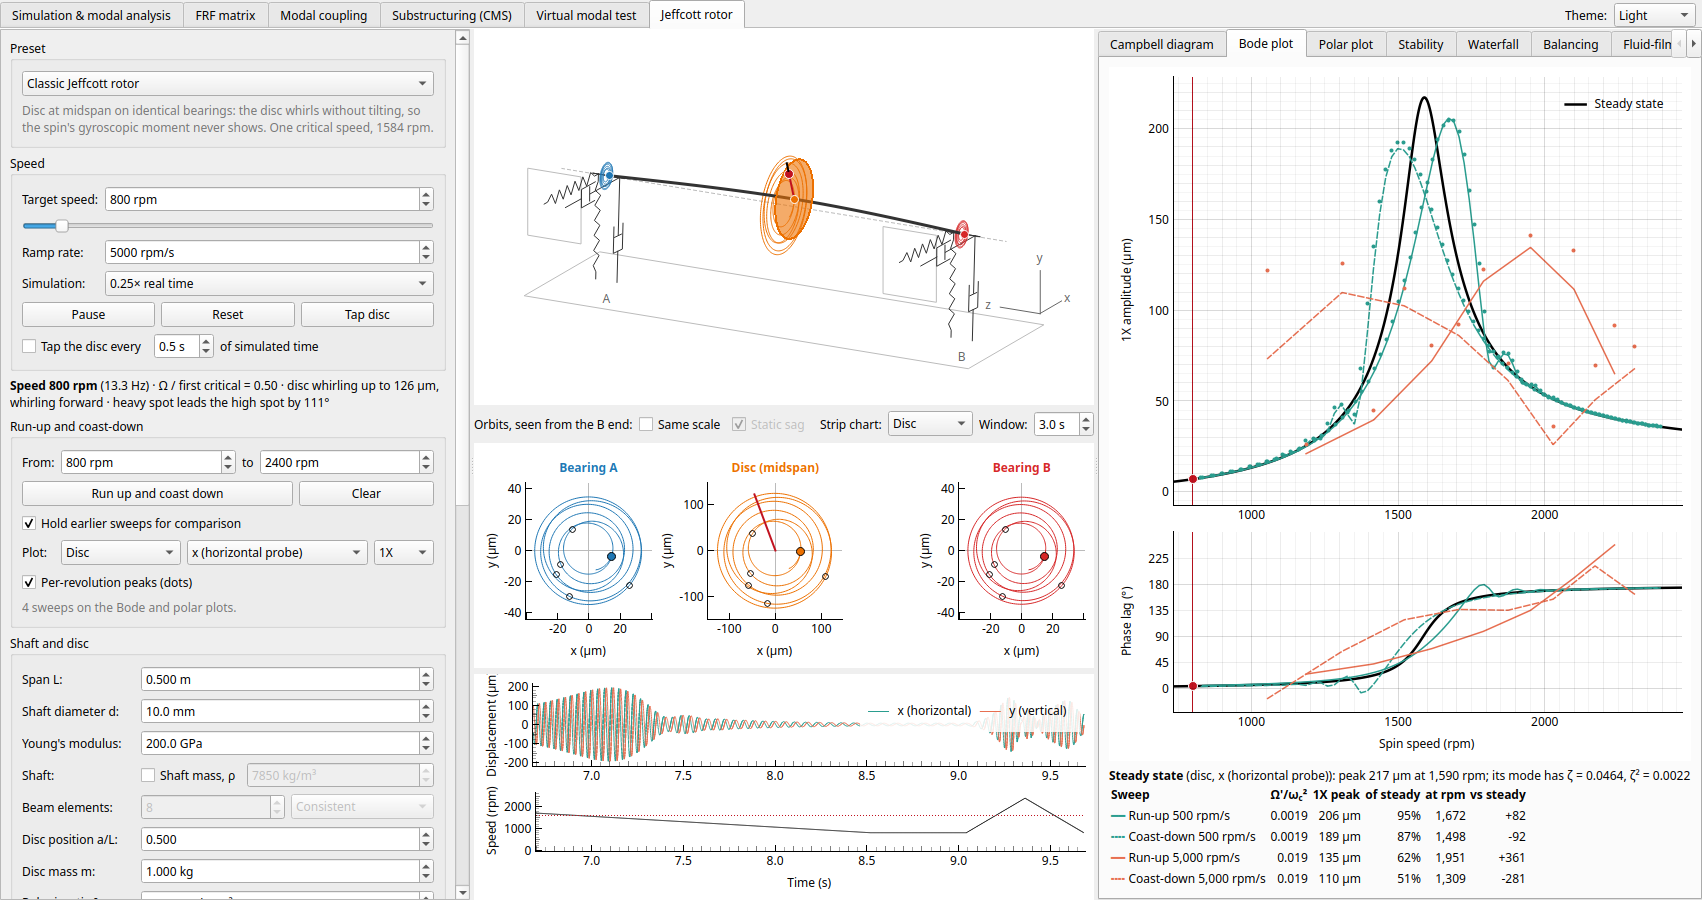
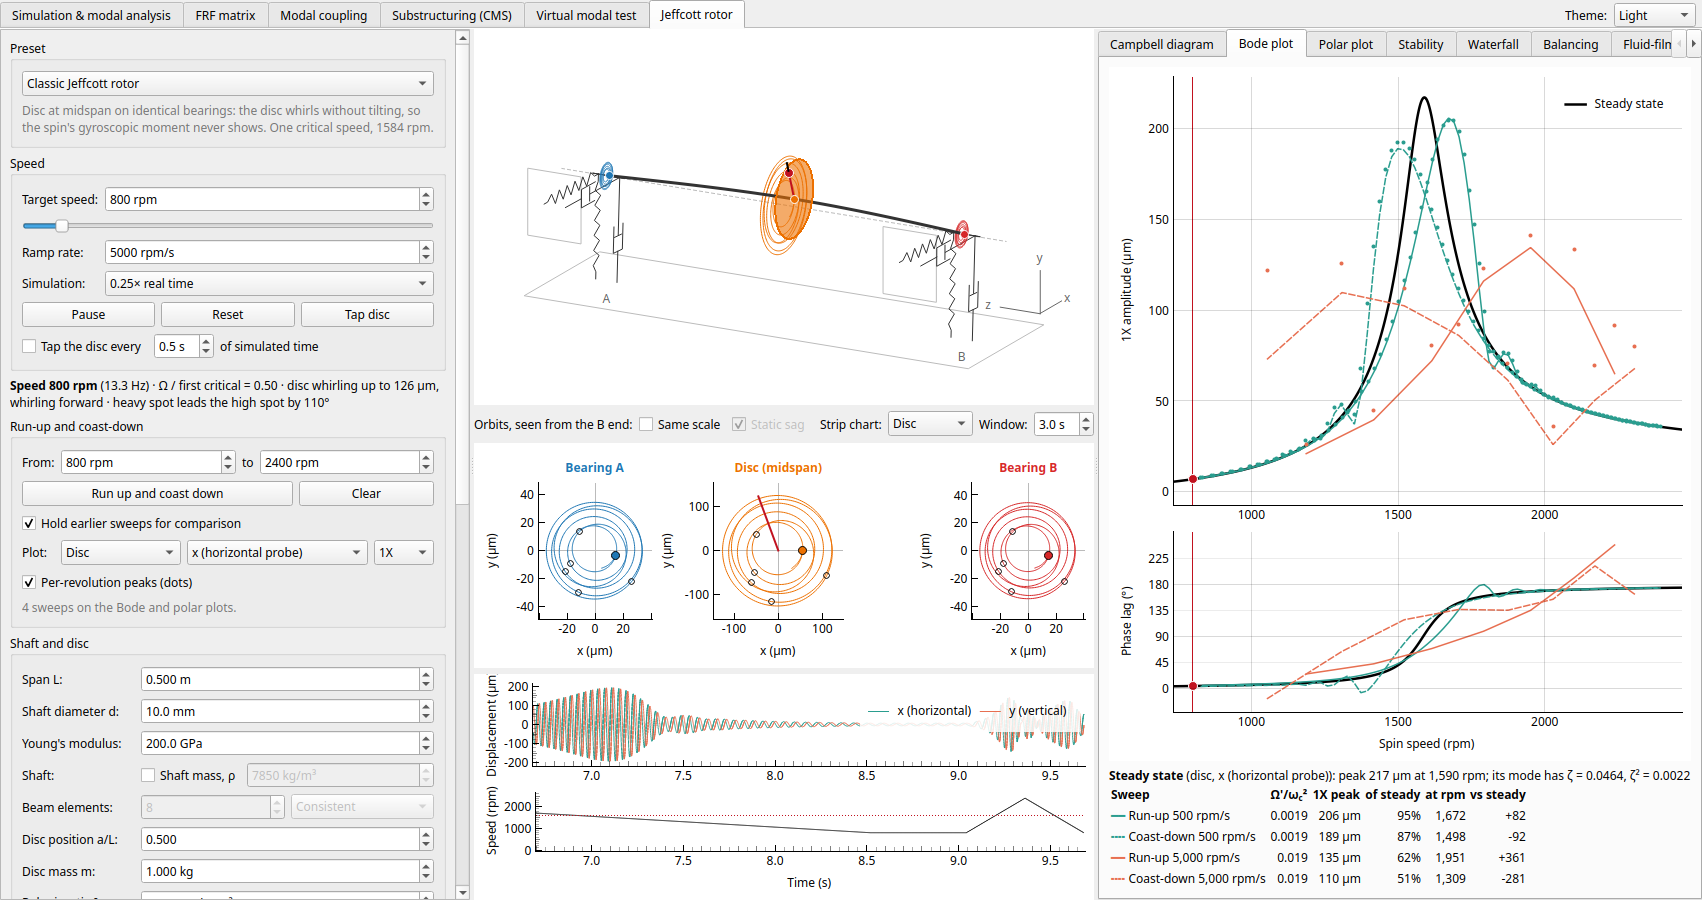
Plots paint once per frame, and not at all when nothing on them changed
From the second Mac log, the rotor page's Bode and Polar sub-tabs painted in
23-28 ms against ~11 for Campbell. Offscreen at 2x:

- The orbits and strip charts painted twice per frame on every page.
  pyqtgraph applies a new view range at the start of the next paint, which
  marks the items dirty again; and the orbits' axes narrowed and widened
  with their tick labels, re-laying the plots out. settle_plots() applies
  the ranges at the end of each page's frame, and the orbit axes no longer
  narrow.
- The Bode and Polar markers were set every frame even at a steady speed,
  repainting both plots (thick curves, grids) for nothing.
- While ramping the marker does move, and each move repaints the axes,
  which draw the grid. The grid is now on major ticks only (it was half the
  plots' paint).

Rotor page paint at 2x, offscreen: Theory 12.9 -> 9.2 ms, Campbell
13.1 -> 9.3, Bode at speed 43.9 -> 9.8 and ramping 61 -> 24, Polar ramping
58 -> 18. Substructuring time response 13.5 -> 11.7.

diff --git a/src/vib_tutorial/gui/rotor_bode.py b/src/vib_tutorial/gui/rotor_bode.py
@@ -59,6 +59,14 @@ class SweepCurves:
     drawn: int = 0  # revolutions drawn so far
 
 
+def _major_grid(plot: pg.PlotItem) -> None:
+    """A grid on the major ticks only. The marker moves every frame of a run-up, and each move
+    repaints the axes, which draw the grid: the minor lines doubled the plots' paint."""
+    plot.showGrid(x=True, y=True, alpha=0.15)
+    for name in ("left", "bottom"):
+        plot.getAxis(name).setStyle(maxTickLevel=0)
+
+
 def _pen(sweep: TrackedSweep, color: int, width: float = 1.5) -> QtCore.QObject:
     c = colors.mode[SWEEP_COLORS[color % len(SWEEP_COLORS)]]
     return pg.mkPen(c, width=width, style=QtCore.Qt.PenStyle.SolidLine if sweep.up else DASH)
@@ -79,7 +87,7 @@ class BodePlots(pg.GraphicsLayoutWidget):
         self.lag.getAxis("bottom").enableAutoSIPrefix(False)
         self.lag.setXLink(self.amp)
         for p in (self.amp, self.lag):
-            p.showGrid(x=True, y=True, alpha=0.15)
+            _major_grid(p)
             p.setAutoVisible(y=True)
             p.setMenuEnabled(False)
         self.ci.layout.setRowStretchFactor(0, 3)
@@ -89,6 +97,7 @@ class BodePlots(pg.GraphicsLayoutWidget):
         self.steady_lag = self.lag.plot()
         self.here_lines = [pg.InfiniteLine(angle=90) for _ in range(2)]
         self.here_dots = [pg.ScatterPlotItem(size=9) for _ in range(2)]
+        self._here: tuple[float, float, float] | None = None
         for p, line, dot in zip((self.amp, self.lag), self.here_lines, self.here_dots):
             p.addItem(line)
             p.addItem(dot)
@@ -113,6 +122,9 @@ class BodePlots(pg.GraphicsLayoutWidget):
         self.steady_lag.setData(rpm, lag)
 
     def set_here(self, rpm: float, amp: float, lag: float) -> None:
+        if (rpm, amp, lag) == self._here:
+            return  # at a steady speed: don't make the plots repaint every frame for nothing
+        self._here = (rpm, amp, lag)
         for line in self.here_lines:
             line.setValue(rpm)
         self.here_dots[0].setData([rpm], [amp])
@@ -130,7 +142,7 @@ class PolarPlot(pg.PlotWidget):
         p.setMenuEnabled(False)
         p.setLabel("bottom", "In phase with the keyphasor", units="m")
         p.setLabel("left", "Quadrature (down: lagging 90°)", units="m")
-        p.showGrid(x=True, y=True, alpha=0.15)
+        _major_grid(p)
         self.axes = [pg.InfiniteLine(pos=0, angle=a) for a in (0, 90)]
         for line in self.axes:
             p.addItem(line)
@@ -139,6 +151,7 @@ class PolarPlot(pg.PlotWidget):
         p.addItem(self.marks)
         self.mark_labels: list[pg.TextItem] = []
         self.here = pg.ScatterPlotItem(size=9)
+        self._here: complex | None = None
         p.addItem(self.here)
         self.here.setZValue(10)
         self.apply_theme()
@@ -179,7 +192,9 @@ class PolarPlot(pg.PlotWidget):
         self.apply_theme()
 
     def set_here(self, value: complex) -> None:
-        self.here.setData([value.real], [value.imag])
+        if value != self._here:  # unchanged at a steady speed: no repaint
+            self._here = value
+            self.here.setData([value.real], [value.imag])
 
 
 class SweepPlots:

diff --git a/tests/test_gui_smoke.py b/tests/test_gui_smoke.py
@@ -2406,6 +2406,56 @@ def test_frame_stats_overlay_is_off_unless_asked_for(app, monkeypatch, tmp_path)
         w.close()
 
 
+def test_rotor_plots_paint_once_per_frame(app):
+    """The orbits rescale and the strip charts scroll every frame: each paints once per frame, not twice
+    (a range applied at the start of the paint marked the items dirty again, and a narrower tick label
+    re-laid the orbits out). And the Bode plot, whose marker stands still at a steady speed, doesn't
+    repaint."""
+    import time
+
+    import pyqtgraph as pg
+
+    from vib_tutorial.core.rotor import RPM
+    from vib_tutorial.gui.main_window import MainWindow
+
+    class Paints(QtCore.QObject):
+        n = 0
+
+        def eventFilter(self, obj, event):  # noqa: N802 (Qt override)
+            if event.type() == QtCore.QEvent.Type.Paint:
+                self.n += 1
+            return False
+
+    def run(seconds):
+        end = time.perf_counter() + seconds
+        while time.perf_counter() < end:
+            app.processEvents()
+            time.sleep(0.001)
+
+    w = MainWindow()
+    w.resize(1700, 900)
+    w.show()
+    page = w.rotor_page
+    w.pages.setCurrentWidget(page)
+    page._refresh_analysis()
+    page.tabs.setCurrentWidget(page.bode.parentWidget())
+    page.sim.omega = page.sim.target = page.target_rpm.value() / RPM  # at speed: the marker stands still
+    run(1.0)
+    views = {type(v).__name__: v for v in page.findChildren(pg.GraphicsView) if v.isVisible()}
+    counts = {name: Paints() for name in ("OrbitPlots", "TimePlots", "BodePlots")}
+    for name, c in counts.items():
+        views[name].viewport().installEventFilter(c)
+    frames = Paints()
+    page._timer.timeout.connect(lambda: setattr(frames, "n", frames.n + 1))
+    run(1.5)
+    page._timer.stop()
+    assert frames.n > 10
+    for name in ("OrbitPlots", "TimePlots"):
+        assert counts[name].n <= frames.n + 1, name
+    assert counts["BodePlots"].n == 0
+    w.close()
+
+
 def test_rotor_analysis_runs_in_the_worker(app, monkeypatch):
     """A parameter change hands the analysis to the worker process, and the page shows it when it's done;
     a change while one runs supersedes it."""

diff --git a/src/vib_tutorial/gui/rotor.py b/src/vib_tutorial/gui/rotor.py
@@ -54,7 +54,7 @@ from ..core.rotor_balance import SteadyMeasurement
 from ..core.rotor_presets import rotor_presets
 from ..core.rotor_stability import AsymmetryChart, Onset, full_spectrum, least_damped
 from ..core.rotor_waterfall import Waterfall
-from . import frame_stats
+from . import frame_stats, settle_plots
 from .cms_time import SampleBuffer
 from .panels import spin
 from .rotor_balance import BalancingPanel
@@ -634,8 +634,10 @@ class OrbitPlots(pg.GraphicsLayoutWidget):
             p.setMenuEnabled(False)
             p.setLabel("bottom", "x", units="m")
             p.setLabel("left", "y", units="m")
-            p.getAxis("bottom").setStyle(maxTickLevel=0)
-            p.getAxis("left").setStyle(maxTickLevel=0)
+            # Not narrowing the axes when the labels do: as the orbits rescale each frame, a
+            # narrower label would re-lay out the plots (and paint them again).
+            p.getAxis("bottom").setStyle(maxTickLevel=0, autoReduceTextSpace=False)
+            p.getAxis("left").setStyle(maxTickLevel=0, autoReduceTextSpace=False)
             for angle in (0, 90):
                 line = pg.InfiniteLine(pos=0, angle=angle)
                 p.addItem(line)
@@ -2361,6 +2363,7 @@ class RotorPage(QtWidgets.QWidget):
         speed = float(self.sim_speed.currentData())
         with frame_stats.frame("Jeffcott rotor", lambda: self.sim.t, FRAME_MS):
             self.step(dt * (max(speed, MEASURE_SPEED) if self.measurement is not None else speed), FRAME_BUDGET)
+            settle_plots(self)
         if self.isVisible() and self.running:
             self._timer.start()
 

diff --git a/src/vib_tutorial/gui/__init__.py b/src/vib_tutorial/gui/__init__.py
@@ -59,6 +59,20 @@ def close_graphics(widget) -> None:
         view.close()
 
 
+def settle_plots(widget) -> None:
+    """Apply the new view ranges of the plots showing in `widget` now, at the end of a frame.
+
+    pyqtgraph defers a range change to the start of the next paint, where moving the items
+    to it marks them dirty again, so every plot whose range a frame changes (the strip
+    charts scroll, the orbits rescale) was painted twice. Call it after a frame's drawing.
+    """
+    import pyqtgraph as pg
+
+    for view in widget.findChildren(pg.GraphicsView):
+        if view.isVisible():
+            view.scene().prepareForPaint()
+
+
 def _preload_scipy() -> None:
     """Import the SciPy modules that only the Virtual modal test uses.
 

diff --git a/src/vib_tutorial/gui/main_window.py b/src/vib_tutorial/gui/main_window.py
@@ -32,7 +32,7 @@ from .history import History
 from .modes import Method, mode_entries
 from .panels import ForcePanel, ParameterPanel, SimControls, spin
 from .plots import FrfPlot, ModalTable, ModeShapePlot, PhasorPanel, TimeHistoryPlot
-from . import frame_stats, theming
+from . import frame_stats, settle_plots, theming
 from .style import SYSTEM, colors
 
 FRAME_MS = 16  # ~60 fps
@@ -758,6 +758,7 @@ class MainWindow(QtWidgets.QMainWindow):
             if self.pages.currentWidget() is self.sim_page:
                 with frame_stats.frame("Simulation", lambda: self.sim.t, FRAME_MS):
                     self._tick()
+                    settle_plots(self.sim_page)
             else:
                 self._tick()
         finally:

diff --git a/src/vib_tutorial/gui/cms_time.py b/src/vib_tutorial/gui/cms_time.py
@@ -13,7 +13,7 @@ from PySide6 import QtCore, QtWidgets
 
 from ..core import CMSModel, ForceController, ForceKind, ForceSettings, ModalResult
 from ..core.cms_response import CMSResponse
-from . import frame_stats
+from . import frame_stats, settle_plots
 from .animation import ChainView
 from .panels import spin
 from .style import colors
@@ -234,6 +234,7 @@ class CMSRunView(QtWidgets.QWidget):
         self._last = now
         with frame_stats.frame("Substructuring time response", lambda: self.sim.t if self.sim else None, FRAME_MS):
             self.step(dt * float(self.speed.currentData()))
+            settle_plots(self)
         if self.sim is not None and self.isVisible():
             self._timer.start()
 

diff --git a/src/vib_tutorial/gui/modal_test.py b/src/vib_tutorial/gui/modal_test.py
@@ -51,7 +51,7 @@ from ..core.identification import (
     peak_picking,
 )
 from ..core.measurement import AA_CUTOFF, FORCE_RMS, IMPACT_PEAK, SINE_AMPLITUDE
-from . import frame_stats
+from . import frame_stats, settle_plots
 from .axes import log_axes
 from .modal_extraction import EXTRACTION_THEORY_HTML, ExtractionControls, ResultsView, StabilizationPlot
 from .panels import spin
@@ -957,6 +957,7 @@ class ModalTestPage(QtWidgets.QWidget):
     def _measure_frame(self) -> None:
         with frame_stats.frame("Virtual modal test", target_ms=FRAME_MS):
             self._measure_some()
+            settle_plots(self)
 
     def _measure_some(self) -> None:
         if self.acq is None:

diff --git a/CLAUDE.md b/CLAUDE.md
@@ -27,7 +27,7 @@ Real-time teaching app for an N-mass spring-damper chain (PySide6 + pyqtgraph + 
 - `Simulator.advance` caps the number of steps per call (`MAX_STEPS_PER_ADVANCE`). Loop over it for long runs in tests.
 - The rotor page's analysis (Campbell, stability onset, steady states: `core/rotor_analysis.py`'s `analyse`, 0.2–6 s) runs in `AnalysisWorker`, a spawned process shared by the pages (`gui/rotor.py`'s `WORKER`), 150 ms after the parameters settle; `_poll_analysis` shows it, and a change while a job has run over `RESTART_S` restarts the worker rather than wait. Not a thread: the frames hold the GIL and would starve it. What it sends and returns must pickle, and `analyse` must not touch Qt. Tests and scripts can still call `_refresh_analysis()`, which works it out at once. The worker hides the parent's `__main__` while it spawns (so unguarded scripts aren't rerun); `vib_tutorial.main` calls `freeze_support()` for the packaged app, and `--smoke-test` checks the worker answers.
 - BLAS runs on one thread (`vib_tutorial.main` sets `OPENBLAS_NUM_THREADS` and friends before NumPy loads, and the worker always): the matrices are small, and OpenBLAS's pool made the cracked shaft's frames 6× slower. Measure before letting BLAS thread again.
-- `gui/frame_stats.py` is the frame-timing overlay (`VIB_FRAME_STATS=1`, or a CSV path to log too). Every page's frame loop runs inside `frame_stats.frame(page, sim_t, target_ms)` (free when it's off), and `MainWindow.event` times each repaint; wrap a new frame loop the same way. The CSV also has `view` rows (what shows: the tabs picked, a page's `frame_context()`, window size, scale, Hz) and `input` rows (`InputLog`, an app-wide event filter: the control's label and new value); `scripts/frame_report.py` cuts a log at them and summarizes each stretch. Give a new page a `frame_context()` if what it shows isn't in its tabs (the rotor's preset).
+- `gui/frame_stats.py` is the frame-timing overlay (`VIB_FRAME_STATS=1`, or a CSV path to log too). Every page's frame loop runs inside `frame_stats.frame(page, sim_t, target_ms)` (free when it's off), and `MainWindow.event` times each repaint; wrap a new frame loop the same way, and end it with `gui.settle_plots(page)` (it applies the plots' new ranges in the frame: pyqtgraph defers them to the paint, which then dirties the items and paints every rescaling plot twice). Don't touch a plot's items in a frame where nothing on it changed (the Bode marker at a steady speed): any change repaints its axes and grid. The CSV also has `view` rows (what shows: the tabs picked, a page's `frame_context()`, window size, scale, Hz) and `input` rows (`InputLog`, an app-wide event filter: the control's label and new value); `scripts/frame_report.py` cuts a log at them and summarizes each stretch. Give a new page a `frame_context()` if what it shows isn't in its tabs (the rotor's preset).
 - Colours come from the theme in `gui/style.py`, read at draw time through `colors` (`colors.mass[i]`, `colors.force`, `colors.muted`). Don't hard-code a colour: it has to be legible in every theme (`style.contrast` gives the WCAG ratio; aim for 3:1 for curves, 4.5:1 for text). A widget that keeps pens or brushes across redraws needs an `apply_theme()`, called from `MainWindow._restyle`. Mute secondary labels with `theming.mute`, not a stylesheet colour.
 - To check UI changes, grab a screenshot offscreen: run the script with `QT_QPA_PLATFORM=offscreen` (only the tests set it; without it the window opens on the real display and gets resized by the compositor). Create the app with `gui.make_app("Light")` (or another theme name); `gui.run()` uses the theme last picked, which is stored in the user's settings. This sets Qt's palette and pyqtgraph's background (the default is black). Then build `MainWindow`, resize it to 1700×900 (the README screenshots' size), run the event loop briefly, and `window.grab().save(path)`. Check a change in Light and Dark at least; `MainWindow.set_theme(name)` switches live. The README images come from `scripts/readme_screenshots.py`; rerun it (or just the affected shots) after a visible UI change and check the captions' numbers still hold.
 - Releases: pushing a `v*` tag that matches `pyproject.toml`'s version runs `.github/workflows/release.yml`, which builds unsigned PyInstaller apps (`packaging/vib-tutorial.spec`) on Linux, Windows and macOS, launches each with `--smoke-test`, and publishes them as a GitHub Release. Build locally with `uv run --group build pyinstaller packaging/vib-tutorial.spec`. If a new feature imports a Qt module, check the spec's `EXCLUDES` and `DROP` lists don't remove it. To try the builds on a branch, `gh workflow run release.yml --ref <branch>` (merges only build when they touch the packaging or dependencies).
